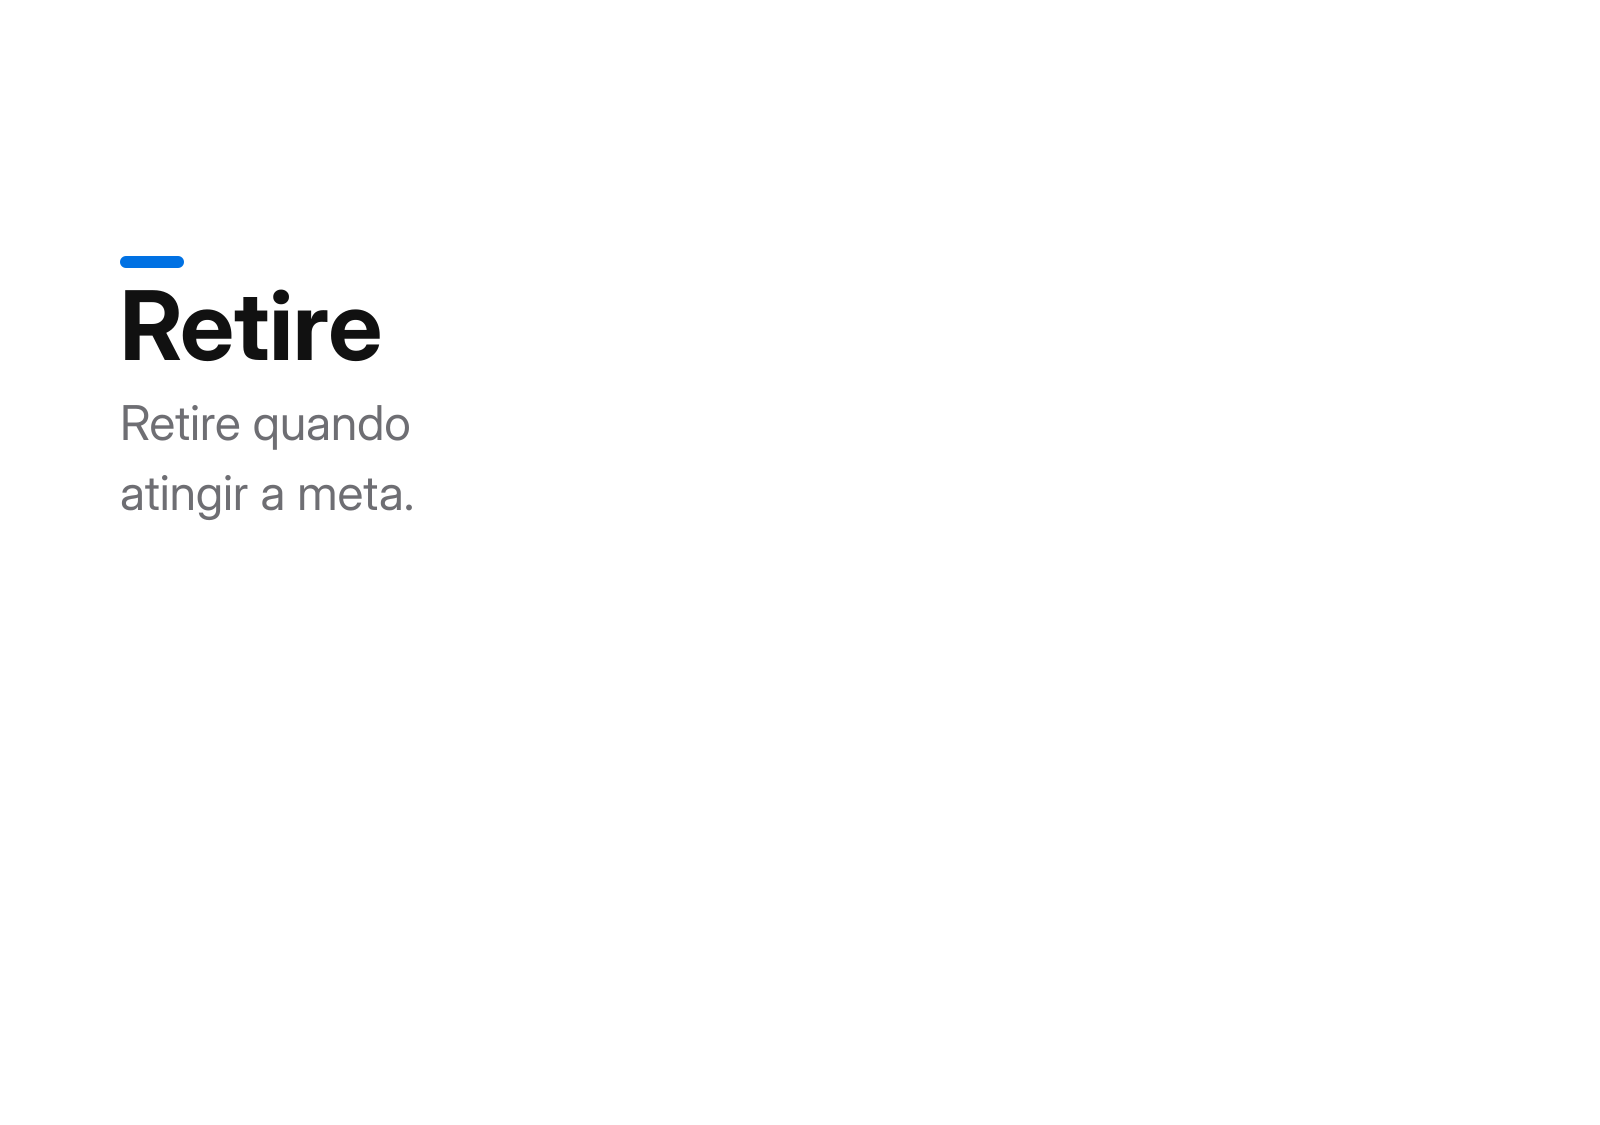
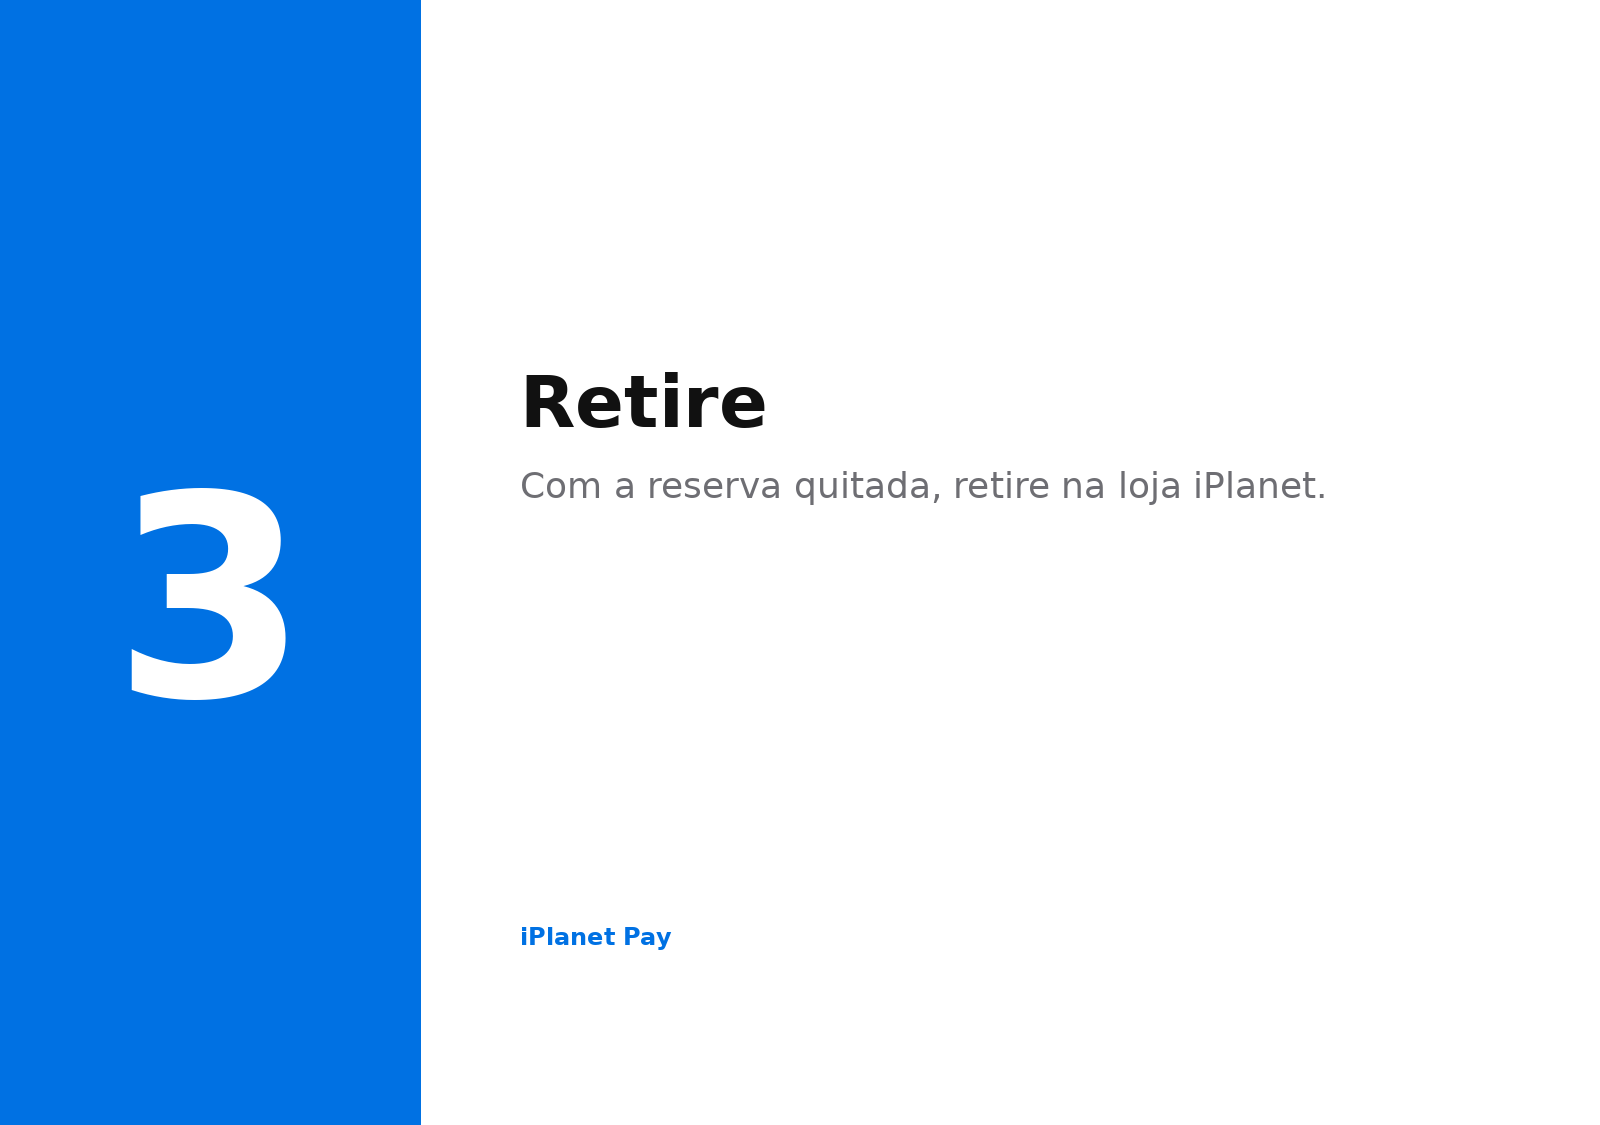
fix(landing): restore Duo screen design, open sooner on pin
Revert step PNGs to pre-redesign art; shorten pin runway and open
window so unfold starts almost as soon as the phone is centered.

Changed region(s): [[0.0, 0.0, 0.2812, 1.0], [0.3125, 0.3111, 0.8125, 0.4667], [0.3125, 0.8089, 0.4062, 0.84]]

diff --git a/src/components/landing/como-funciona-duo-scroll.tsx b/src/components/landing/como-funciona-duo-scroll.tsx
@@ -11,17 +11,17 @@ import { MotionFade } from "@/components/ui/motion";
 import { IphoneDuoScrollClient } from "@/components/landing/iphone-duo-scroll-client";
 
 /** Sticky runway height (vh). Phone stays pinned while foldProgress 0→1. */
-const PIN_VH = 220;
+const PIN_VH = 140;
 /** Site header offset so the phone centers in the remaining viewport. */
 const HEADER_PX = 64;
 /**
- * Scroll progress inside the pin runway:
- * 0–holdClosed: closed & centered
- * holdClosed–openEnd: unfold animation
- * openEnd–1: hold fully open (readable), then release to next
+ * Scroll progress inside the pin runway (tuned short so open starts ASAP once centered):
+ * 0–holdClosed: brief closed hold
+ * holdClosed–openEnd: unfold
+ * openEnd–1: hold open readable, then release
  */
-const HOLD_CLOSED = 0.12;
-const OPEN_END = 0.55;
+const HOLD_CLOSED = 0.02;
+const OPEN_END = 0.38;
 
 const STEPS = [
   {
